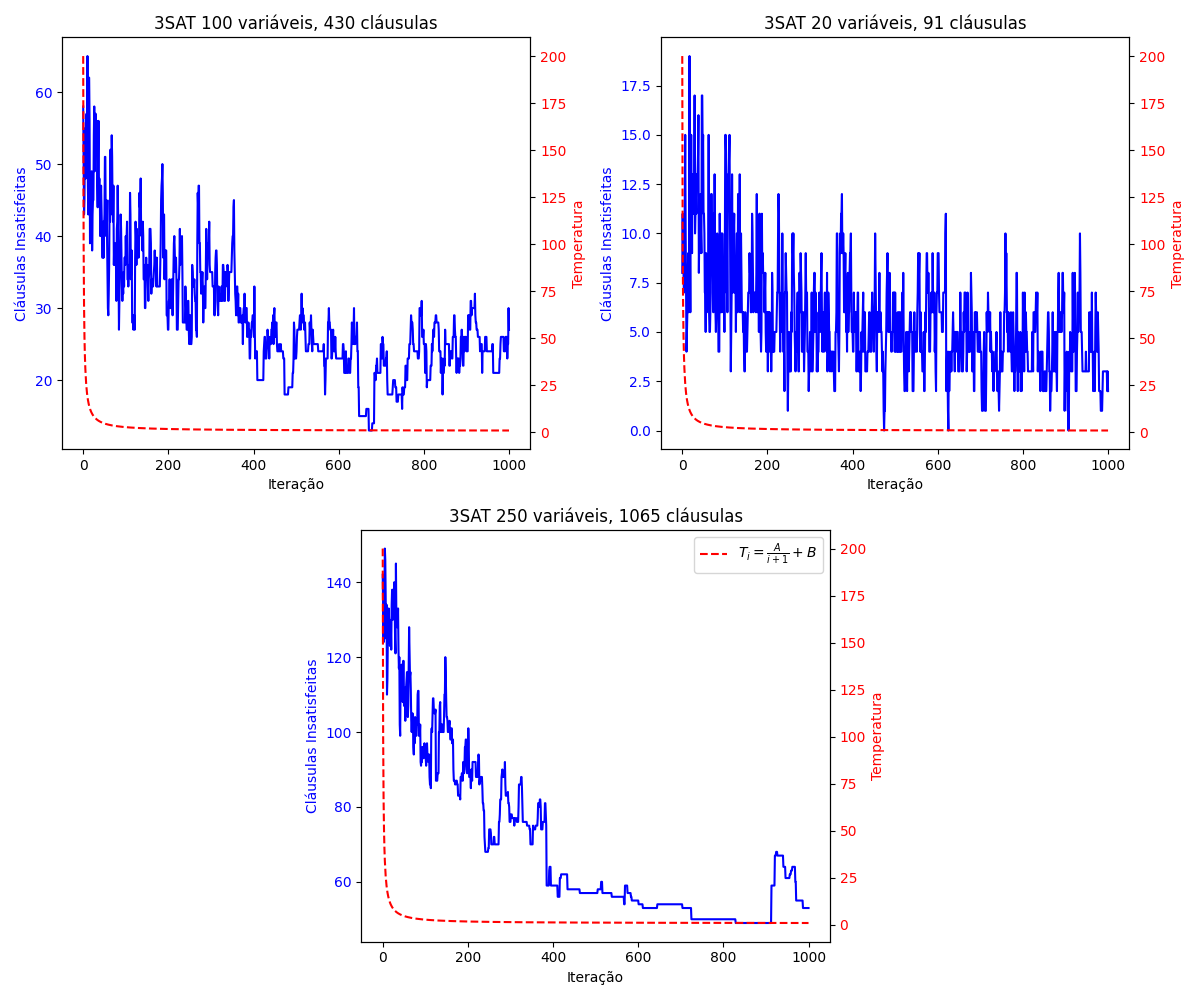
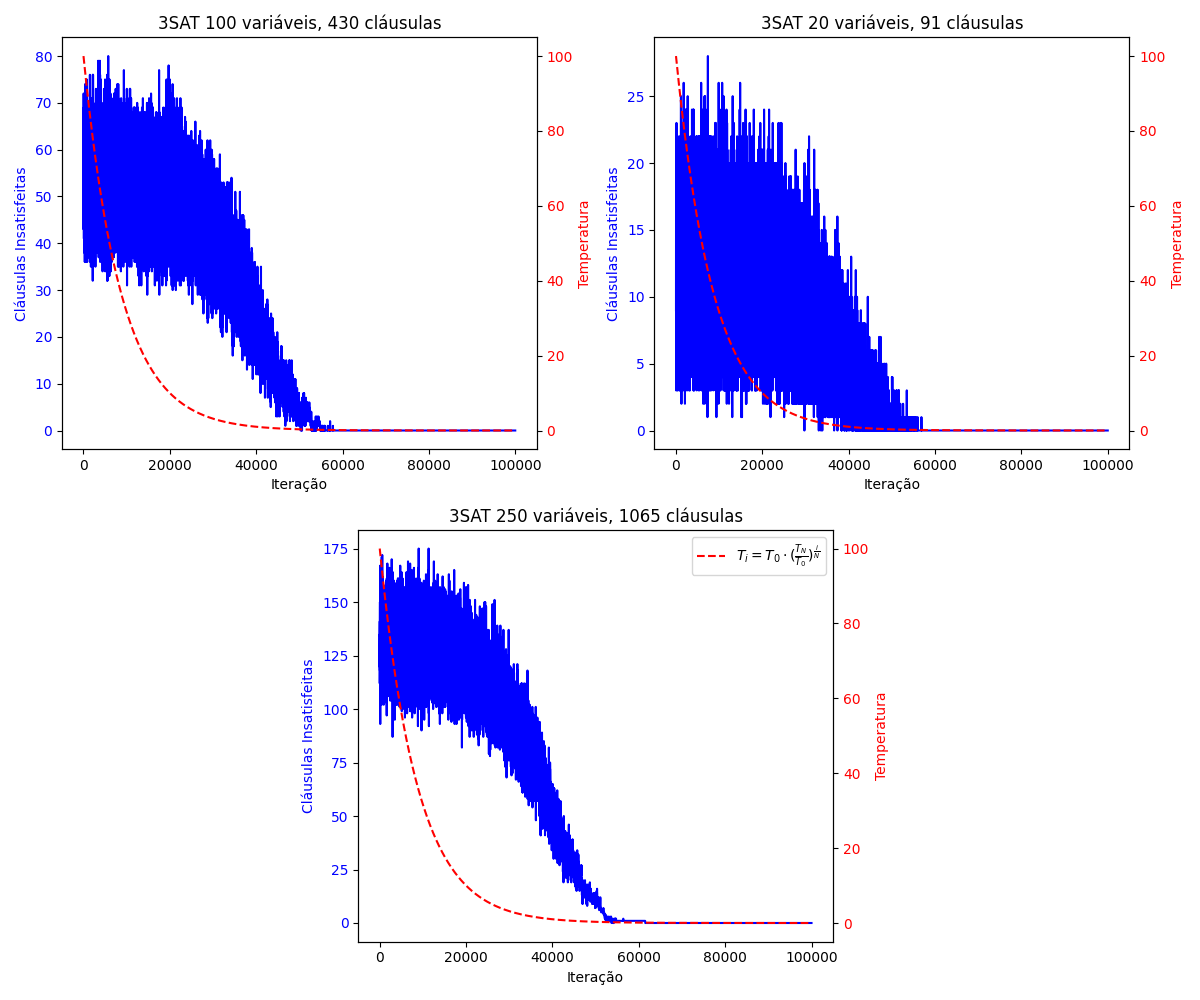
novas funções de resfriamento, flip_fact 1%

diff --git a/src/annealing/annealing.py b/src/annealing/annealing.py
@@ -5,9 +5,7 @@ def cooling_schedule1(i, t0, t_final, eval_max):
     return t0 * (t_final/t0) ** (i/eval_max)
 
 def cooling_schedule2(i, t0, t_final, eval_max):
-    A = ((t0 - t_final) * (eval_max + 1)) / eval_max
-    B = t0 - A
-    return A / (i+1) + B
+    return (t0 - t_final) / numpy.cosh(10*i/eval_max) + t_final
 
 def cooling_schedule3(i, t0, t_final, eval_max):
     return 0.5 * (t0 - t_final) * (1 - numpy.tanh(10*i/eval_max - 5)) + t_final
@@ -21,7 +19,7 @@ COOLING_SCHEDULES = [
 # Para facilitar a criação de gráficos
 COOLING_SCHEDULES_LABELS = [
     r'$T_i = T_0 \cdot (\frac{T_N}{T_0})^{\frac{i}{N}}$',
-    r'$T_i = \frac{A}{i + 1} + B$',
+    r'$T_i = \frac{(T_O - T_N)}{\cosh{\frac{10i}{N}}} + T_N'
     r'$\frac{1}{2}(T_0 - T_N)  (1 - \tanh(\frac{10i}{N} - 5) + T_N$'
 ]
 
@@ -97,4 +95,4 @@ class SimulatedAnnealing:
         }
 
 def accept_worse(energy_delta, temperature):
-    return numpy.random.rand() < numpy.exp(-energy_delta/temperature) if temperature != 0 else False
+    return numpy.random.rand() < min(numpy.exp(-energy_delta/temperature), 1.0) if temperature != 0 else False

diff --git a/sa_max_experiment.py b/sa_max_experiment.py
@@ -12,10 +12,12 @@ FORMULAS_DIR = './instances'
 RESULTS_DIR = './results/sa_max'
 
 # Configurações de experimento
-COOLING_SCHEDULE = 2
+COOLING_SCHEDULE = 1
 SA_MAX_VALUES = (1, 5, 10)
 EVAL_NUM = 100000
-FLIP_FACTOR = 0.05
+T0 = 100
+T_FINAL = 0.001
+FLIP_FACTOR = 0.01
 
 if not os.path.exists(RESULTS_DIR):
     os.mkdir(RESULTS_DIR)
@@ -48,8 +50,8 @@ for instance, ax in zip(instances, plot_axes):
         for i in range(30):
             print(f'Iteração {i}')
             result = algorithm.run(
-                t0=200,
-                t_final=1,
+                t0=T0,
+                t_final=T_FINAL,
                 sa_max=sa_max,
                 eval_max=EVAL_NUM,
             )

diff --git a/src/sat/sat.py b/src/sat/sat.py
@@ -36,7 +36,7 @@ class SATDomain(Domain):
     
     @override
     def get_neighbour(self, current):
-        num_flips = int(self.flip_factor * current.size)
+        num_flips = max(int(self.flip_factor * current.size), 1)
         flip_mask = numpy.random.choice(numpy.arange(current.size), size=num_flips, replace=False)
         new = numpy.copy(current)
         new[flip_mask] = ~new[flip_mask]

diff --git a/convergence_experiment.py b/convergence_experiment.py
@@ -9,11 +9,11 @@ FORMULAS_DIR = './instances'
 RESULTS_DIR = './results/convergence'
 
 # Configurações de experimento
-COOLING_SCHEDULE = 2
-FLIP_FACTOR = 0.05
-SA_MAX = 5
-T0 = 200
-T_FINAL = 1
+COOLING_SCHEDULE = 1
+FLIP_FACTOR = 0.01
+SA_MAX = 10
+T0 = 100
+T_FINAL = 0.001
 NUM_EVAL = 100000
 
 if not os.path.exists(RESULTS_DIR):

diff --git a/cooling_schedules_experiment.py b/cooling_schedules_experiment.py
@@ -15,9 +15,9 @@ RESULTS_DIR = './results/cooling_schedules'
 COOLING_SCHEDULES = [1, 2, 3]
 EVAL_NUM = 100000
 SA_MAX = 1
-T0 = 200
-T_FINAL = 1
-FLIP_FACTOR = 0.05
+T0 = 100
+T_FINAL = 0.001
+FLIP_FACTOR = 0.01
 
 if not os.path.exists(RESULTS_DIR):
     os.mkdir(RESULTS_DIR)
